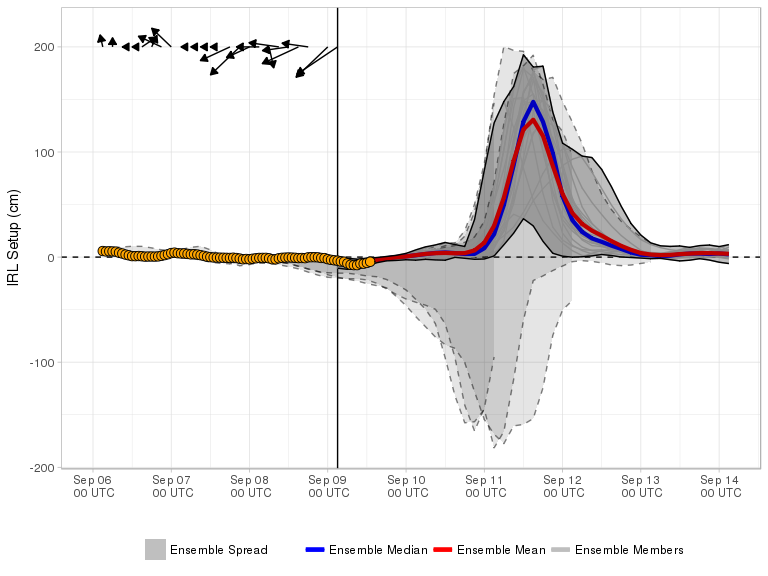
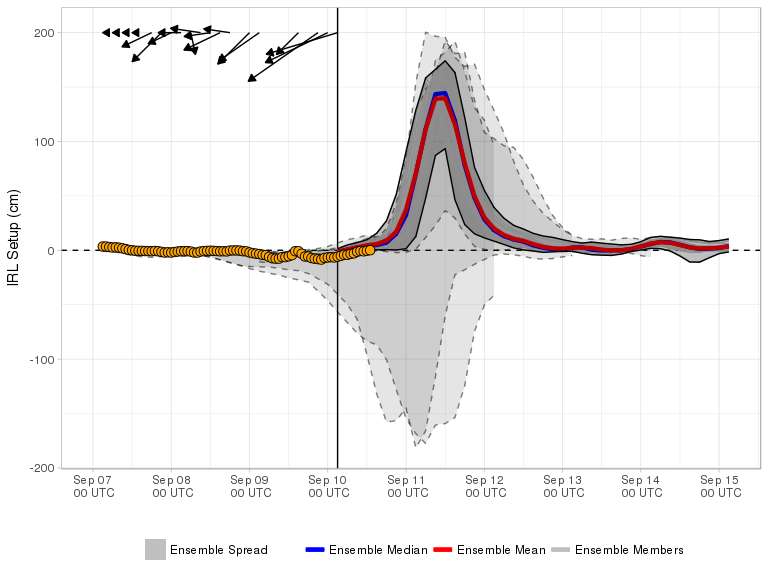
forecast update

diff --git a/docs/index.md b/docs/index.md
@@ -3,7 +3,7 @@ Current Forecast
 
 [![](img/raw_setup.png)](https://fit-winds.github.io/IRLSetup/img/raw_setup.png)
 
-> Forecast valid 2017-09-09 10:08:16.
+> Forecast valid 2017-09-10 09:23:39.
 
 Explanation
 -----------
@@ -17,7 +17,7 @@ star), and Sebastian, FL (white star). In general, southerly (northerly)
 winds result in increased water elevation near Titusville (Sebastian)
 and positive (negative) setup.
 
-The current (18 UTC 2017-09-08) 0.5° [Global Ensemble Forecast System
+The current (18 UTC 2017-09-09) 0.5° [Global Ensemble Forecast System
 (GEFS)](https://www.ncdc.noaa.gov/data-access/model-data/model-datasets/global-ensemble-forecast-system-gefs)
 mean and median forecasts of setup are represented by the red and blue
 curves, respectively. Ensemble spread from the current and three
